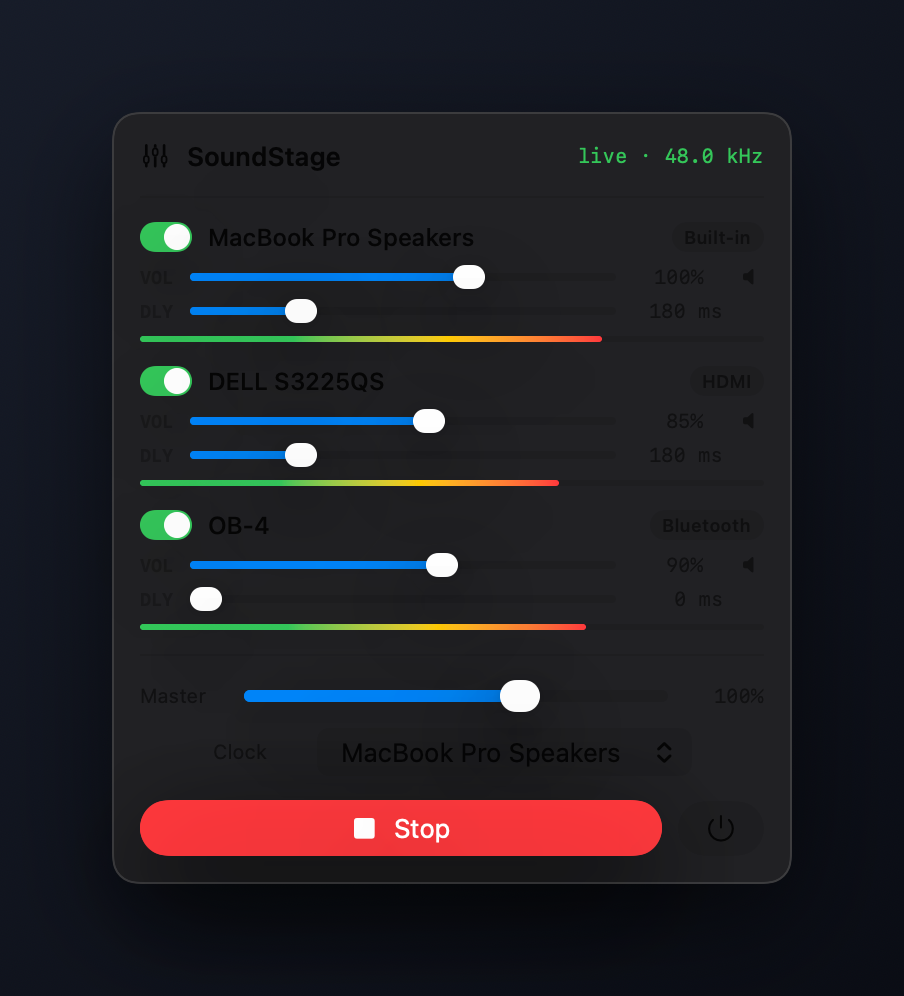
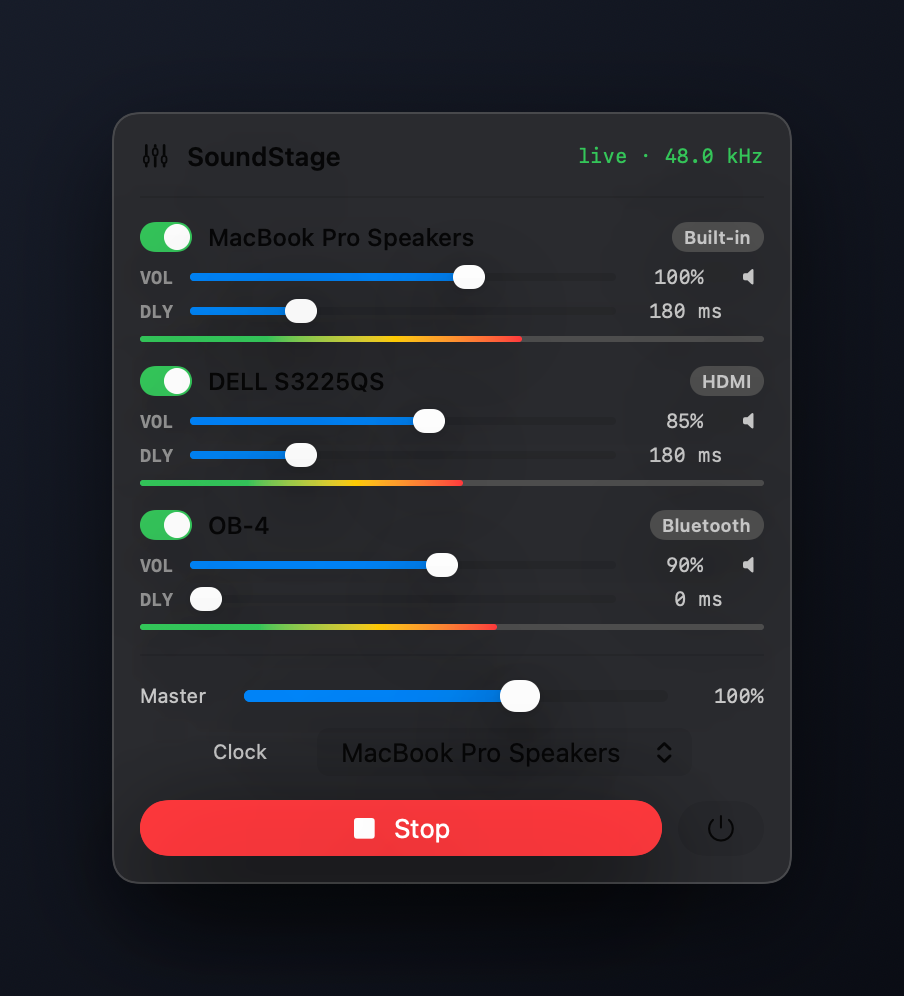
Fix capture contrast, add CI release workflow
Hierarchical SwiftUI styles resolve nearly black in offscreen ImageRenderer;
capture mode now substitutes explicit colors. Release binaries are built and
attached by GitHub Actions on tag push for provenance.

diff --git a/macos/Sources/SoundStage/PanelView.swift b/macos/Sources/SoundStage/PanelView.swift
@@ -1,5 +1,21 @@
 import SwiftUI
 
+/// ImageRenderer (--capture) has no backing window, so hierarchical styles
+/// (.secondary/.tertiary/.quaternary) resolve nearly black. During capture we
+/// substitute explicit colors; the live app keeps the native styles.
+enum CaptureTheme {
+    static var active = false
+    static var secondary: AnyShapeStyle {
+        active ? AnyShapeStyle(Color(white: 0.78)) : AnyShapeStyle(.secondary)
+    }
+    static var tertiary: AnyShapeStyle {
+        active ? AnyShapeStyle(Color(white: 0.58)) : AnyShapeStyle(.tertiary)
+    }
+    static var faint: AnyShapeStyle {
+        active ? AnyShapeStyle(Color(white: 0.30)) : AnyShapeStyle(.quaternary)
+    }
+}
+
 struct PanelView: View {
     @EnvironmentObject var model: AppModel
 
@@ -36,7 +52,7 @@ struct PanelView: View {
             } else {
                 Text("stopped")
                     .font(.caption.monospaced())
-                    .foregroundStyle(.secondary)
+                    .foregroundStyle(CaptureTheme.secondary)
             }
         }
     }
@@ -46,7 +62,7 @@ struct PanelView: View {
             HStack {
                 Text("Master")
                     .font(.caption)
-                    .foregroundStyle(.secondary)
+                    .foregroundStyle(CaptureTheme.secondary)
                     .frame(width: 44, alignment: .leading)
                 Slider(
                     value: Binding(
@@ -57,13 +73,13 @@ struct PanelView: View {
                 )
                 Text("\(Int(model.settings.master * 100))%")
                     .font(.caption.monospaced())
-                    .foregroundStyle(.secondary)
+                    .foregroundStyle(CaptureTheme.secondary)
                     .frame(width: 40, alignment: .trailing)
             }
             HStack {
                 Text("Clock")
                     .font(.caption)
-                    .foregroundStyle(.secondary)
+                    .foregroundStyle(CaptureTheme.secondary)
                     .frame(width: 44, alignment: .leading)
                 Picker("", selection: Binding(
                     get: { model.effectiveMasterUid ?? "" },
@@ -150,15 +166,15 @@ struct DeviceRow: View {
                     .font(.system(size: 9, weight: .semibold))
                     .padding(.horizontal, 6)
                     .padding(.vertical, 2)
-                    .background(.quaternary, in: Capsule())
-                    .foregroundStyle(.secondary)
+                    .background(CaptureTheme.faint, in: Capsule())
+                    .foregroundStyle(CaptureTheme.secondary)
             }
 
             Grid(alignment: .leading, horizontalSpacing: 8, verticalSpacing: 4) {
                 GridRow {
                     Text("VOL")
                         .font(.system(size: 9, weight: .bold).monospaced())
-                        .foregroundStyle(.tertiary)
+                        .foregroundStyle(CaptureTheme.tertiary)
                     Slider(
                         value: Binding(
                             get: { model.settings.gain[device.uid] ?? 1 },
@@ -169,14 +185,14 @@ struct DeviceRow: View {
                     .controlSize(.mini)
                     Text("\(Int((model.settings.gain[device.uid] ?? 1) * 100))%")
                         .font(.caption2.monospaced())
-                        .foregroundStyle(.secondary)
+                        .foregroundStyle(CaptureTheme.secondary)
                         .frame(width: 36, alignment: .trailing)
                     Button {
                         model.toggleMute(device.uid)
                     } label: {
                         Image(systemName: muted ? "speaker.slash.fill" : "speaker.fill")
                             .font(.system(size: 9))
-                            .foregroundStyle(muted ? .red : .secondary)
+                            .foregroundStyle(muted ? AnyShapeStyle(.red) : CaptureTheme.secondary)
                     }
                     .buttonStyle(.plain)
                     .help(muted ? "Unmute" : "Mute")
@@ -184,7 +200,7 @@ struct DeviceRow: View {
                 GridRow {
                     Text("DLY")
                         .font(.system(size: 9, weight: .bold).monospaced())
-                        .foregroundStyle(.tertiary)
+                        .foregroundStyle(CaptureTheme.tertiary)
                     Slider(
                         value: Binding(
                             get: { model.settings.delayMs[device.uid] ?? 0 },
@@ -195,7 +211,7 @@ struct DeviceRow: View {
                     .controlSize(.mini)
                     Text("\(Int(model.settings.delayMs[device.uid] ?? 0)) ms")
                         .font(.caption2.monospaced())
-                        .foregroundStyle(.secondary)
+                        .foregroundStyle(CaptureTheme.secondary)
                         .frame(width: 46, alignment: .trailing)
                         .lineLimit(1)
                         .fixedSize()
@@ -221,7 +237,7 @@ struct MeterBar: View {
     var body: some View {
         GeometryReader { geo in
             ZStack(alignment: .leading) {
-                Capsule().fill(.quaternary)
+                Capsule().fill(CaptureTheme.faint)
                 Capsule()
                     .fill(LinearGradient(
                         colors: [.green, .green, .yellow, .red],

diff --git a/macos/Sources/SoundStage/App.swift b/macos/Sources/SoundStage/App.swift
@@ -25,6 +25,7 @@ struct SoundStageApp: App {
 
     @MainActor
     private static func capture(to path: String, hero: Bool) {
+        CaptureTheme.active = true
         let model = AppModel(preview: true)
         model.running = true
         // Deterministic demo state, independent of what's connected.
@@ -37,7 +38,7 @@ struct SoundStageApp: App {
                         channels: 2, sampleRate: 48000, isDefault: false),
         ]
         model.settings = Settings()
-        let demoLevels: [Float] = [0.2, 0.13, 0.17]
+        let demoLevels: [Float] = [0.09, 0.05, 0.07]
         for (i, d) in model.devices.enumerated() {
             model.settings.gain[d.uid] = [1.0, 0.85, 0.9][i]
             // Delay goes on the *fast* (wired) devices to match Bluetooth
@@ -47,10 +48,10 @@ struct SoundStageApp: App {
 
         let panel = PanelView()
             .environmentObject(model)
-            .background(Color(red: 0.13, green: 0.13, blue: 0.14))
+            .background(Color(red: 0.165, green: 0.17, blue: 0.185))
             .clipShape(RoundedRectangle(cornerRadius: 13))
             .overlay(RoundedRectangle(cornerRadius: 13)
-                .strokeBorder(.white.opacity(0.12), lineWidth: 1))
+                .strokeBorder(.white.opacity(0.14), lineWidth: 1))
 
         let content: AnyView = hero
             ? AnyView(panel

diff --git a/README.md b/README.md
@@ -4,6 +4,7 @@
 
 **Play system audio through all your output devices at once — with per-device volume, latency alignment, and live metering. From your menu bar.**
 
+[![Build](https://github.com/nintang/soundstage/actions/workflows/release.yml/badge.svg)](https://github.com/nintang/soundstage/actions/workflows/release.yml)
 ![macOS 14.4+](https://img.shields.io/badge/macOS-14.4%2B-blue)
 ![Swift](https://img.shields.io/badge/Swift-5.9-orange)
 ![Apple Silicon](https://img.shields.io/badge/arch-Apple%20Silicon-lightgrey)
